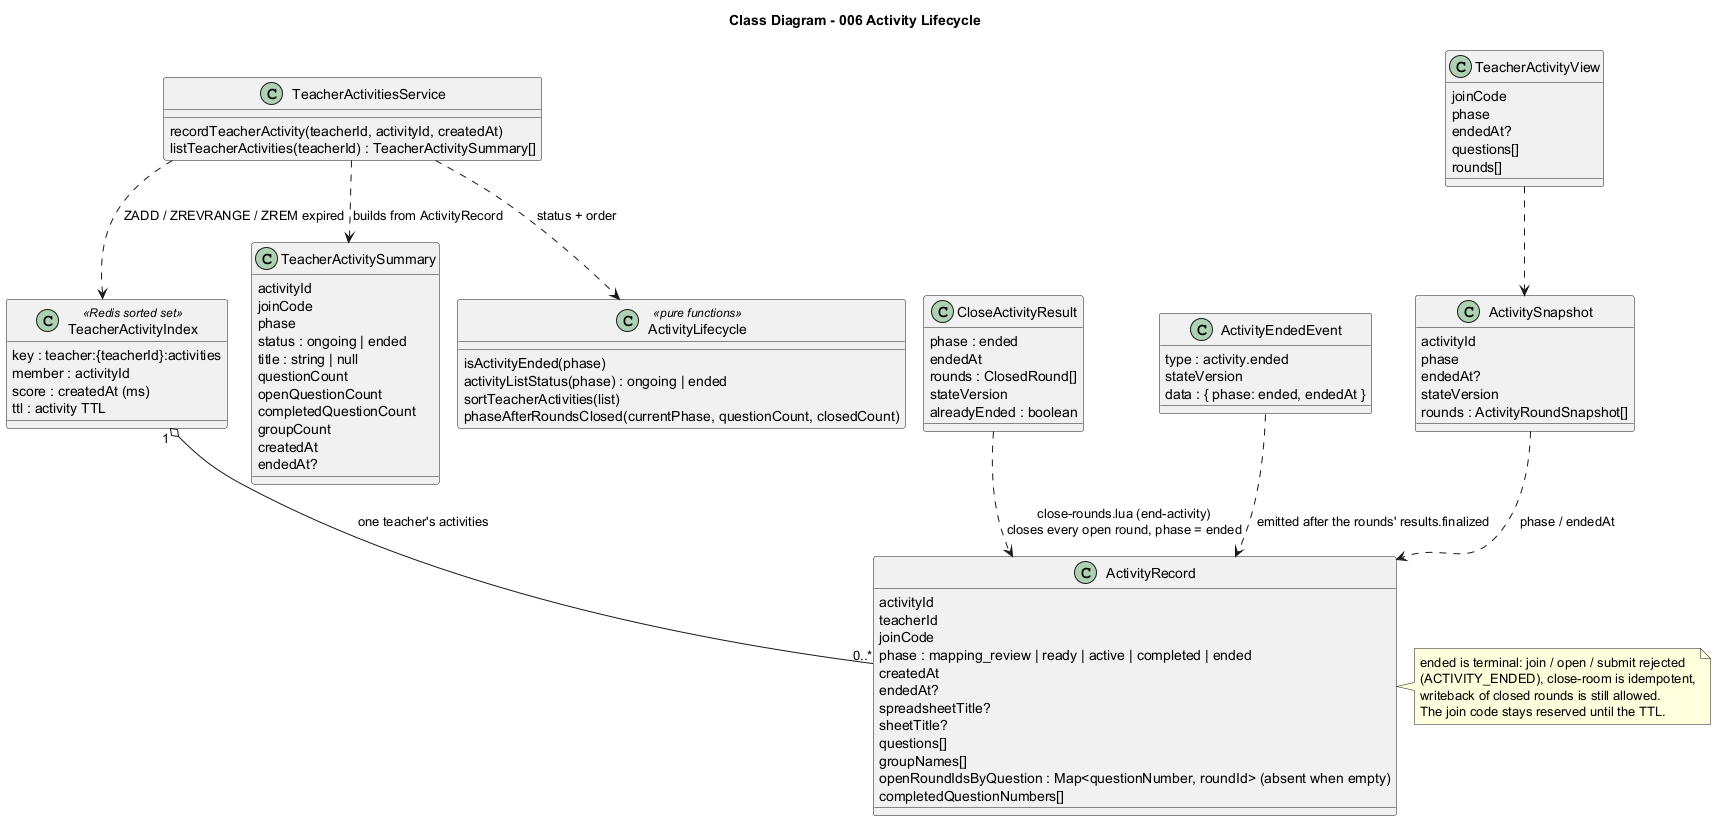
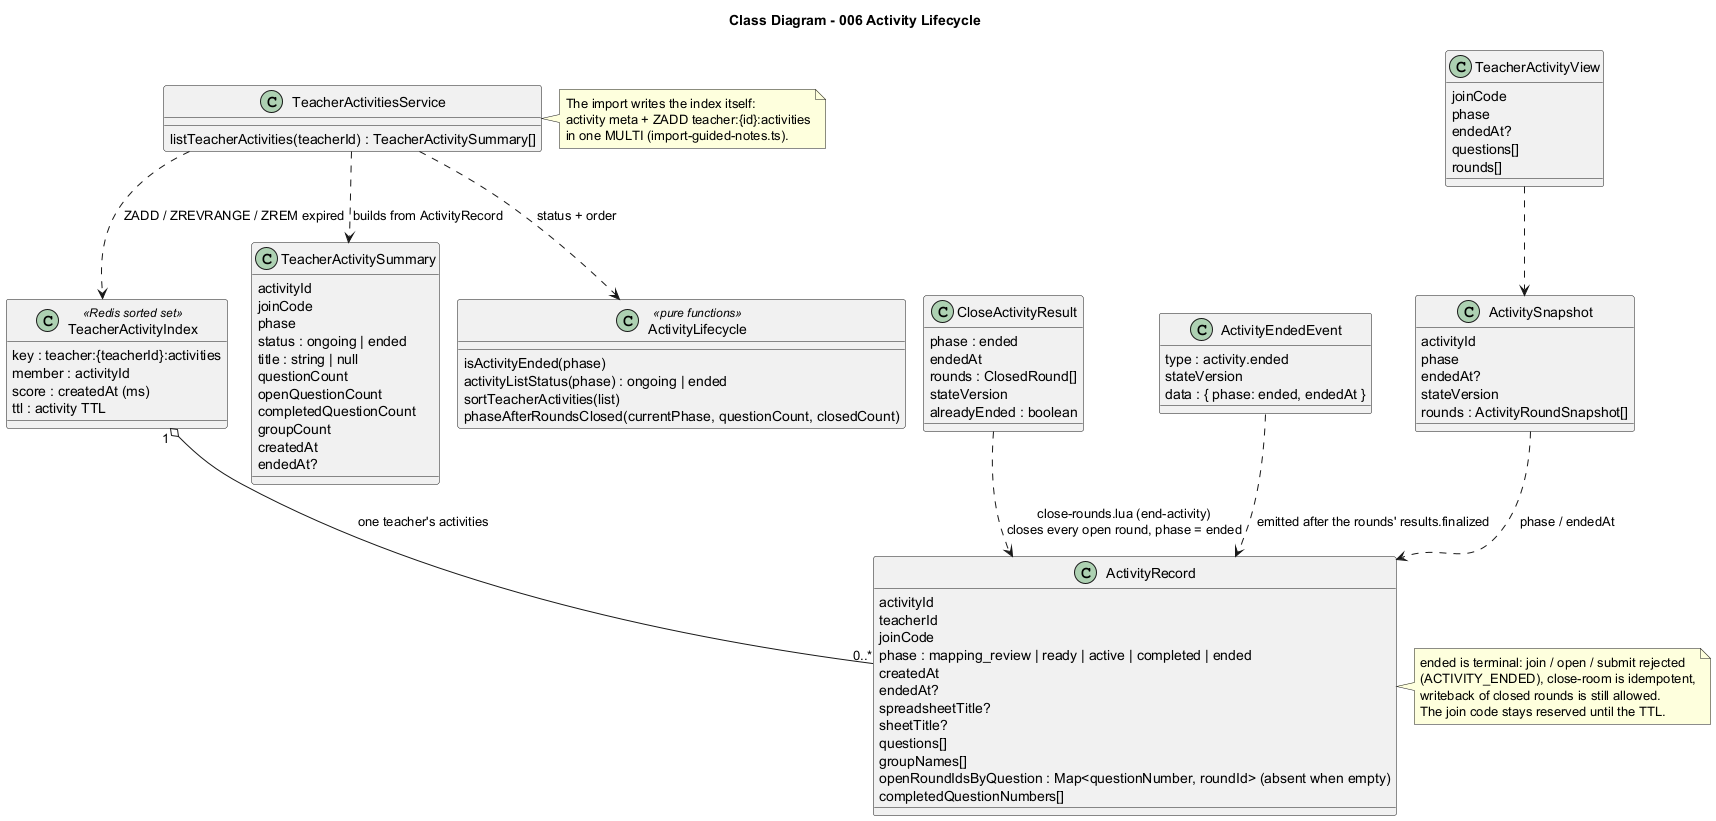
docs(006): align diagrams with the import-side index write and record verification
The import writes the activity meta and the teacher index ZADD in one MULTI,
so the diagrams no longer show a recordTeacherActivity service call.
Records the T025 diagram check and the T023 results (typecheck, lint,
36 Vitest files / 205 tests) in quickstart.md and marks the finished tasks.
T024 is left for the browser check after integration with 005.

Changed region(s): [[0.0927, 0.0914, 0.4942, 0.2132]]

diff --git a/main/specs/006-activity-lifecycle/tasks.md b/main/specs/006-activity-lifecycle/tasks.md
@@ -23,13 +23,13 @@
 
 ## Phase 2: Foundational (blocking both stories)
 
-- [ ] T002 [P] Unit tests for `tests/unit/activities/activity-lifecycle.test.ts`:
+- [X] T002 [P] Unit tests for `tests/unit/activities/activity-lifecycle.test.ts`:
   - `isActivityEnded`
   - `activityListStatus` for every phase
   - `sortTeacherActivities`: ongoing first, newest first, stable, no mutation, missing `createdAt` last within a status
   - `phaseAfterRoundsClosed`: ended is sticky, completed vs active
-- [ ] T003 Implement `src/features/activities/domain/activity-lifecycle.ts` (makes T002 pass).
-- [ ] T004 Add `ended` to `activityPhases` and add `endedAt`.
+- [X] T003 Implement `src/features/activities/domain/activity-lifecycle.ts` (makes T002 pass).
+- [X] T004 Add `ended` to `activityPhases` and add `endedAt`.
   - `src/features/activities/domain/types.ts`
   - `ActivitySnapshot.endedAt` in `src/features/activities/domain/snapshot.ts`
   - `teacherActivities` key in `src/server/redis/keyspace.ts`
@@ -46,22 +46,22 @@
 
 ### Tests for User Story 1
 
-- [ ] T005 [P] [US1] Update `tests/unit/sheets/import-guided-notes.test.ts`. The import writes the meta, `createdAt`, `sheetTitle` and the optional `spreadsheetTitle`, plus the teacher index, in one `MULTI` with the activity TTL.
-- [ ] T006 [P] [US1] Integration tests in `tests/integration/activity-lifecycle.test.ts` (real Redis, Google adapter stubbed):
+- [X] T005 [P] [US1] Update `tests/unit/sheets/import-guided-notes.test.ts`. The import writes the meta, `createdAt`, `sheetTitle` and the optional `spreadsheetTitle`, plus the teacher index, in one `MULTI` with the activity TTL.
+- [X] T006 [P] [US1] Integration tests in `tests/integration/activity-lifecycle.test.ts` (real Redis, Google adapter stubbed):
   - an import is listed for its teacher with every summary field
   - another teacher's activities are never listed
   - ongoing before ended, newest first, at most 50
   - an expired activity is removed from the index and not listed
-- [ ] T007 [P] [US1] Contract tests in `tests/contract/activity-lifecycle.test.ts` for `GET /api/teacher/activities`: 200 for the teacher (service called with the session teacher id), 401 anonymous, 403 student.
-- [ ] T008 [P] [US1] Schema test: `activityImportSchema` accepts an optional `spreadsheetTitle` (trimmed, ≤ 200) and still accepts bodies without it. Goes in `tests/unit/validation/activity-import-schema.test.ts`.
+- [X] T007 [P] [US1] Contract tests in `tests/contract/activity-lifecycle.test.ts` for `GET /api/teacher/activities`: 200 for the teacher (service called with the session teacher id), 401 anonymous, 403 student.
+- [X] T008 [P] [US1] Schema test: `activityImportSchema` accepts an optional `spreadsheetTitle` (trimmed, ≤ 200) and still accepts bodies without it. Goes in `tests/unit/validation/activity-import-schema.test.ts`.
 
 ### Implementation for User Story 1
 
-- [ ] T009 [US1] `src/lib/validation/schemas.ts`: optional `spreadsheetTitle`.
-- [ ] T010 [US1] `src/features/activities/application/teacher-activities.ts`: `teacherActivityIndexCommands` (used inside the import `MULTI`) and `listTeacherActivities` (ZREVRANGE + MGET + ZREM expired + ownership re-check + summaries + sort).
-- [ ] T011 [US1] `src/features/sheets/application/import-guided-notes.ts`: `createdAt`, `sheetTitle`, `spreadsheetTitle`, and meta + index written in one `MULTI` (makes T005 and T006 pass).
-- [ ] T012 [US1] `src/app/api/teacher/activities/route.ts` (makes T007 pass).
-- [ ] T013 [US1] Server component `src/components/teacher/activity-list.tsx`, rendered on `src/app/(teacher)/teacher/import/page.tsx` for a signed-in teacher. The console's back link `src/app/(teacher)/teacher/activities/[activityId]/page.tsx` becomes 「返回教師工作區」. `guided-notes-import.tsx` sends the Picker file name. Styles go in `globals.css`.
+- [X] T009 [US1] `src/lib/validation/schemas.ts`: optional `spreadsheetTitle`.
+- [X] T010 [US1] `src/features/activities/application/teacher-activities.ts`: `listTeacherActivities` (the index `ZADD` itself is written by the import inside its `MULTI`, see T011) (ZREVRANGE + MGET + ZREM expired + ownership re-check + summaries + sort).
+- [X] T011 [US1] `src/features/sheets/application/import-guided-notes.ts`: `createdAt`, `sheetTitle`, `spreadsheetTitle`, and meta + index written in one `MULTI` (makes T005 and T006 pass).
+- [X] T012 [US1] `src/app/api/teacher/activities/route.ts` (makes T007 pass).
+- [X] T013 [US1] Server component `src/components/teacher/activity-list.tsx`, rendered on `src/app/(teacher)/teacher/import/page.tsx` for a signed-in teacher. The console's back link `src/app/(teacher)/teacher/activities/[activityId]/page.tsx` becomes 「返回教師工作區」. `guided-notes-import.tsx` sends the Picker file name. Styles go in `globals.css`.
 
 **Checkpoint**: the teacher can always get back to an activity from the workspace.
 
@@ -78,7 +78,7 @@
 
 ### Tests for User Story 2
 
-- [ ] T014 [P] [US2] Integration tests in `tests/integration/activity-lifecycle.test.ts`:
+- [X] T014 [P] [US2] Integration tests in `tests/integration/activity-lifecycle.test.ts`:
   - **Close with questions open.** Two open questions with one submission. `closeActivity` closes both, the phase becomes `ended` with `endedAt`, and no open map remains. Events: two `results.finalized`, then `activity.ended`, with contiguous versions.
   - **Close with nothing open.** A room with no open questions closes too.
   - **Idempotent.** The second call returns `alreadyEnded: true` with no new event.
@@ -86,18 +86,18 @@
   - **Stale open set.** The script reports `STALE_OPEN_ROUNDS` when an open round is missing from its keys.
   - **Rejected after ended.** Open, submit, join lookup and join are refused with the ended messages.
   - **Writeback after ended.** It can still be queued (the test cleans up its own job and stream entry).
-- [ ] T015 [P] [US2] Contract tests in `tests/contract/activity-lifecycle.test.ts` for `POST /api/activities/{id}/close`: 200 for the teacher (service called with activity id and session teacher id), 401 anonymous, 403 student, error passthrough (403/404).
-- [ ] T016 [P] [US2] Security tests in `tests/security/activity-lifecycle.test.ts`, using the real session module:
+- [X] T015 [P] [US2] Contract tests in `tests/contract/activity-lifecycle.test.ts` for `POST /api/activities/{id}/close`: 200 for the teacher (service called with activity id and session teacher id), 401 anonymous, 403 student, error passthrough (403/404).
+- [X] T016 [P] [US2] Security tests in `tests/security/activity-lifecycle.test.ts`, using the real session module:
   - a seat (student) cookie gets 403 on list and close, even in a browser that also holds the teacher cookie
   - the list ignores any `teacherId` query and uses the session teacher
-- [ ] T017 [P] [US2] Projection test: `activity.ended` reaches students unchanged, and other events keep their rules. Goes in `tests/unit/events/activity-ended-projection.test.ts` (own file; the shared projection test is left to 005).
+- [X] T017 [P] [US2] Projection test: `activity.ended` reaches students unchanged, and other events keep their rules. Goes in `tests/unit/events/activity-ended-projection.test.ts` (own file; the shared projection test is left to 005).
 
 ### Implementation for User Story 2
 
-- [ ] T018 [US2] `close-rounds.lua` mode `end-activity`. `open-rounds.lua` and `submit-answer.lua` reject `ended` (`ACTIVITY_ENDED`).
-- [ ] T019 [US2] `src/server/redis/round-store.ts`: `closeActivity` (read the open set, EVAL, retry on stale) plus the new error messages. `round-service.ts`: `closeActivityRoom`.
-- [ ] T020 [US2] `src/app/api/activities/[activityId]/close/route.ts`. `join-activity.ts` gets the ended message. `activity-snapshot.ts` and `teacher-activity.ts` expose `endedAt`. `activity-event-projection.ts` forwards `activity.ended`. (Makes T014–T017 pass.)
-- [ ] T021 [US2] UI:
+- [X] T018 [US2] `close-rounds.lua` mode `end-activity`. `open-rounds.lua` and `submit-answer.lua` reject `ended` (`ACTIVITY_ENDED`).
+- [X] T019 [US2] `src/server/redis/round-store.ts`: `closeActivity` (read the open set, EVAL, retry on stale) plus the new error messages. `round-service.ts`: `closeActivityRoom`.
+- [X] T020 [US2] `src/app/api/activities/[activityId]/close/route.ts`. `join-activity.ts` gets the ended message. `activity-snapshot.ts` and `teacher-activity.ts` expose `endedAt`. `activity-event-projection.ts` forwards `activity.ended`. (Makes T014–T017 pass.)
+- [X] T021 [US2] UI:
   - `src/components/teacher/close-room-control.tsx` (status, 「關閉房間」, in-page confirm)
   - `round-control.tsx` (join-code panel / toolbar only): `activity.ended` listener, sticky ended phase, read-only open/close when ended, writeback kept
   - `student/activity-round.tsx`: `activity.ended` listener, 「活動已結束」 banner and pill
@@ -109,10 +109,10 @@
 
 ## Phase 5: Polish & Cross-Cutting
 
-- [ ] T022 [P] E2E spec `tests/e2e/activity-lifecycle.spec.ts` (seeded Redis, teacher cookie): list → console → close room → student banner → join rejected. Not executed locally because Playwright browsers aren't installed.
-- [ ] T023 Run `pnpm typecheck`, `pnpm lint` and `pnpm exec vitest run tests/unit tests/contract tests/security tests/architecture tests/integration tests/load`. Fix any failure.
+- [X] T022 [P] E2E spec `tests/e2e/activity-lifecycle.spec.ts` (seeded Redis, teacher cookie): list → console → close room → student banner → join rejected. Not executed locally because Playwright browsers aren't installed.
+- [X] T023 Run `pnpm typecheck`, `pnpm lint` and `pnpm exec vitest run tests/unit tests/contract tests/security tests/architecture tests/integration tests/load`. Fix any failure.
 - [ ] T024 SSR smoke on a private port (not 3000) with seeded data: the workspace list renders for the teacher, the console shows 「關閉房間」, and the student page shows the ended banner.
-- [ ] T025 Verify the implementation against `diagrams/006-*.puml` and record the result in `quickstart.md`.
+- [X] T025 Verify the implementation against `diagrams/006-*.puml` and record the result in `quickstart.md`.
 
 ---
 

diff --git a/main/specs/006-activity-lifecycle/quickstart.md b/main/specs/006-activity-lifecycle/quickstart.md
@@ -44,3 +44,24 @@ pnpm exec vitest run tests/unit tests/contract tests/security tests/architecture
 ## 預期結果
 
 所有自動化檢查通過；A–C 情境全部符合預期。
+
+## Diagram alignment verification (T025, 2026-11-25)
+
+逐一核對 `diagrams/006-component.puml`、`006-class.puml`、`006-sequence.puml` 與實作：
+
+| 圖表元素 | 實作位置 | 結果 |
+|---|---|---|
+| Teacher Workspace Page／Teacher Activity List | `app/(teacher)/teacher/import/page.tsx`、`components/teacher/activity-list.tsx` | 一致 |
+| Teacher Console「返回教師工作區」與房間狀態 | `app/(teacher)/teacher/activities/[activityId]/page.tsx`、`components/teacher/round-control.tsx` | 一致 |
+| Close Room Control（頁面內確認） | `components/teacher/close-room-control.tsx`（「確認關閉房間」，未使用 `window.confirm`） | 一致 |
+| Teacher Activities Route／Service | `app/api/teacher/activities/route.ts` → `listTeacherActivities`（ZREVRANGE 前 50 筆、MGET meta、ZREM 過期、依 `sortTeacherActivities` 排序） | 一致 |
+| Import Service 寫入索引 | `import-guided-notes.ts`：同一個 `MULTI` 內 SET meta＋`ZADD teacher:{id}:activities` | **修正圖表**：原圖寫成呼叫 `recordTeacherActivity`，實作是匯入流程直接在 `MULTI` 寫入。已更新 `006-component`／`006-class` 與 plan、tasks（T010） |
+| Activity Lifecycle（pure） | `domain/activity-lifecycle.ts`：`isActivityEnded`、`activityListStatus`、`sortTeacherActivities`、`phaseAfterRoundsClosed` | 一致 |
+| Close Room Route → Round Service → Round Store | `app/api/activities/[activityId]/close/route.ts` → `closeActivityRoom` → `closeActivity`（`STALE_OPEN_ROUNDS` 有限次重試） | 一致 |
+| Lua `close-rounds.lua` mode `end-activity` | 結束所有開放中題目、`phase = ended`、`endedAt`、`activity.ended` 事件；已關閉時回傳 `alreadyEnded: true` | 一致 |
+| `open-rounds.lua`／`submit-answer.lua` 拒絕 ended | `ACTIVITY_ENDED`／`ACTIVITY_ENDED_SUBMIT` → 409 | 一致 |
+| Join Service 拒絕 ended | `join-activity.ts`：「此活動已關閉，無法加入。」 | 一致 |
+| SSE 投影 `activity.ended` 給所有人 | `activity-event-projection.ts` | 一致 |
+| Student Activity Page「活動已結束」 | `components/student/activity-round.tsx` | 一致 |
+
+自動化檢查（T023）：`pnpm typecheck`、`pnpm lint` 通過；Vitest 36 個檔案、205 個測試全部通過。

diff --git a/main/specs/006-activity-lifecycle/plan.md b/main/specs/006-activity-lifecycle/plan.md
@@ -89,7 +89,7 @@ src/
 │   ├── domain/activity-lifecycle.ts         # NEW: pure status / order / phase helpers
 │   ├── domain/types.ts                      # CHANGED: ended phase, endedAt
 │   ├── domain/snapshot.ts                   # CHANGED: ActivitySnapshot.endedAt
-│   ├── application/teacher-activities.ts    # NEW: recordTeacherActivity / listTeacherActivities
+│   ├── application/teacher-activities.ts    # NEW: listTeacherActivities (the import writes the index in its own MULTI)
 │   ├── application/round-service.ts         # CHANGED: closeActivityRoom
 │   ├── application/activity-snapshot.ts     # CHANGED: endedAt
 │   ├── application/teacher-activity.ts      # CHANGED: endedAt
